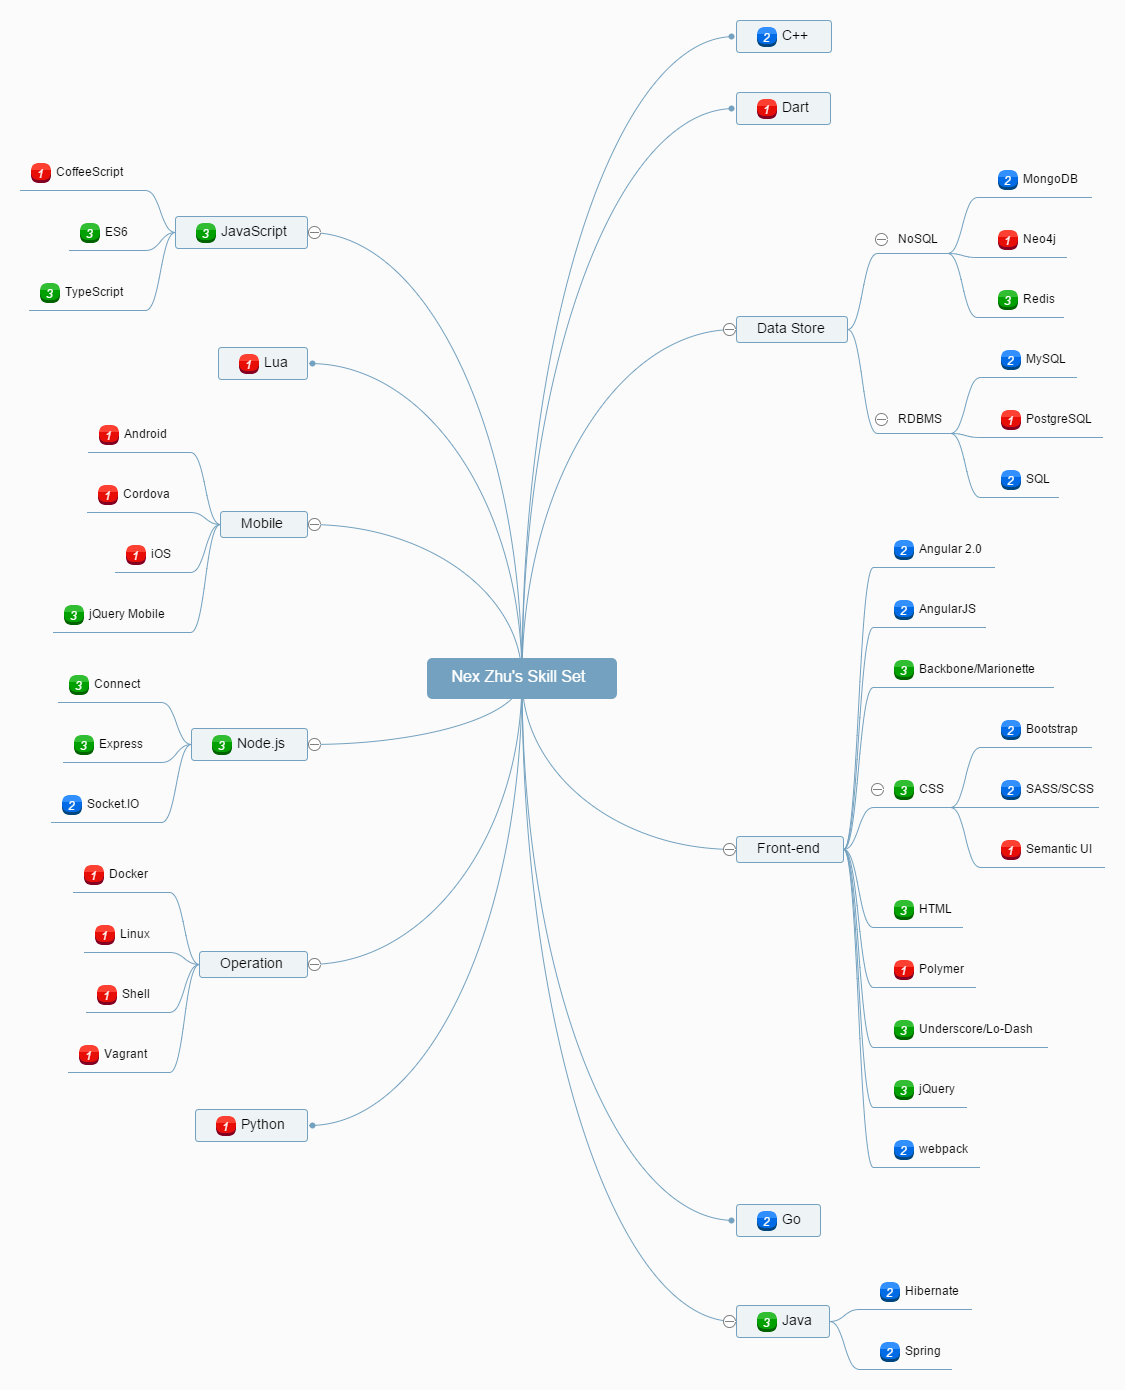
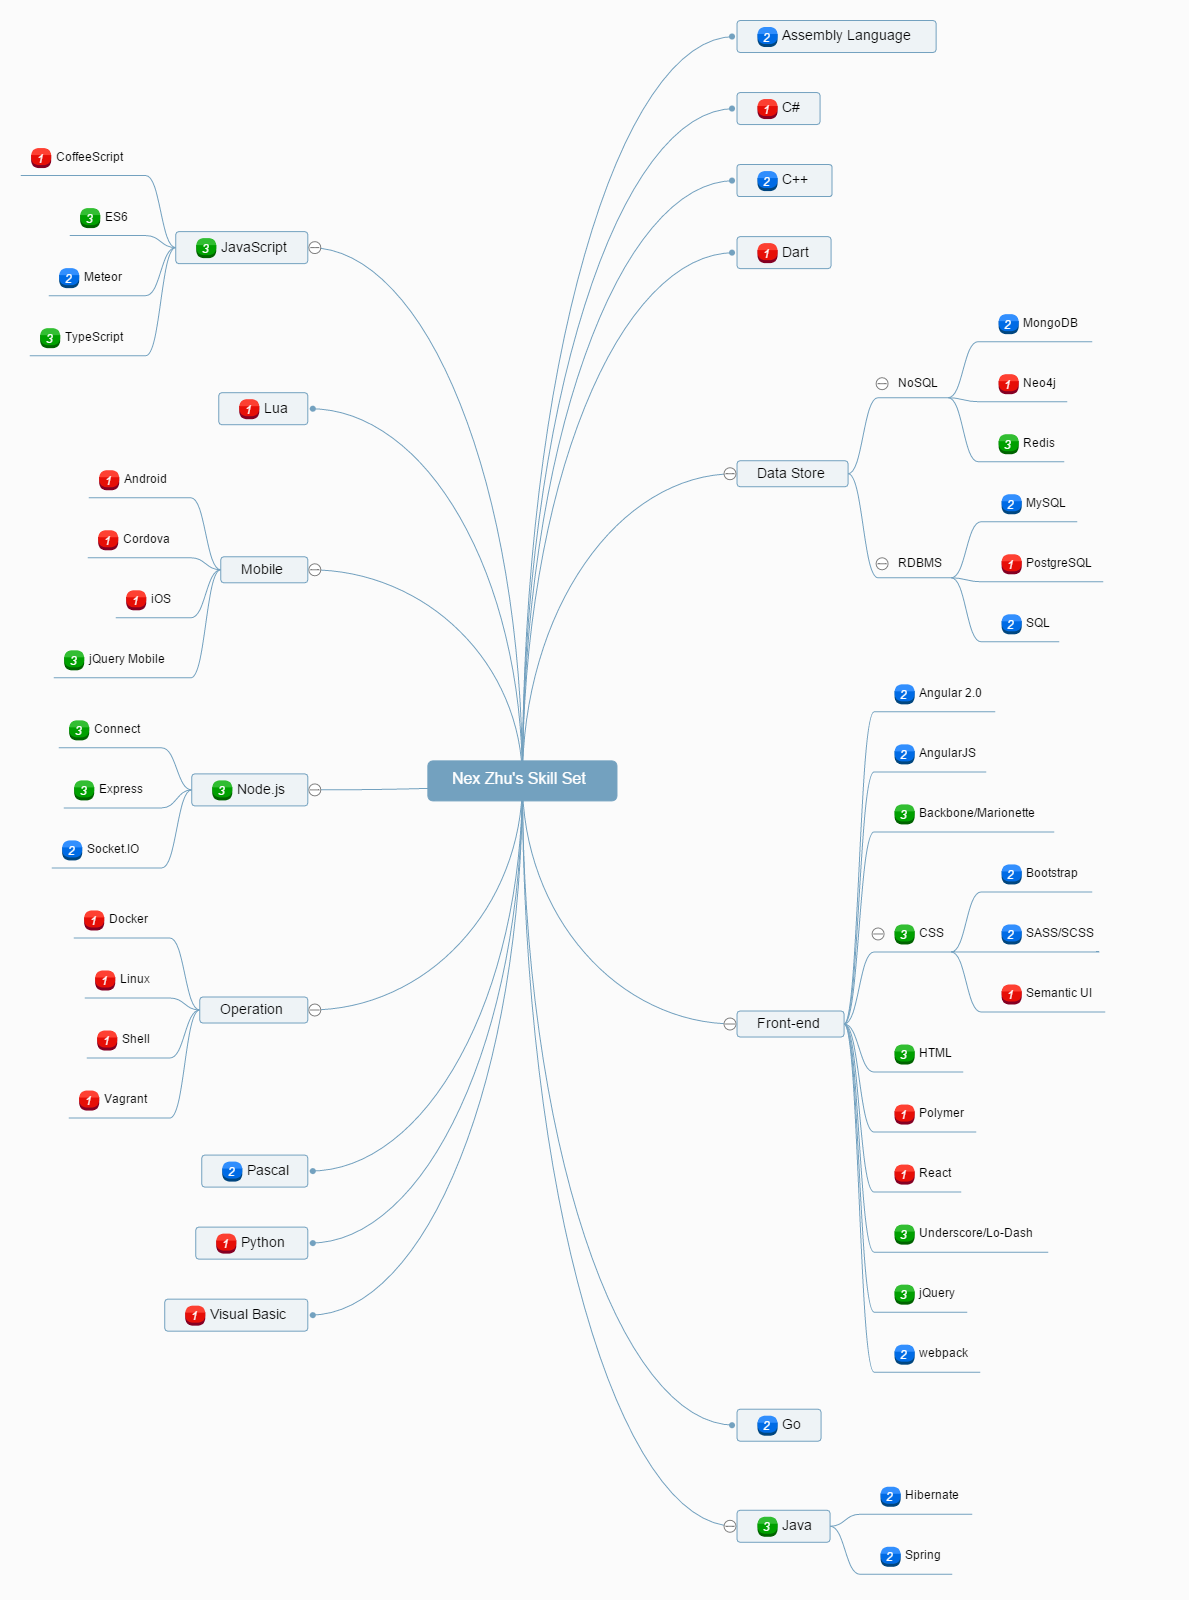
add demo link in README.md

diff --git a/public/index.html b/public/index.html
@@ -36,6 +36,8 @@
 {
   "name": "Nex Zhu",
   "skillset": {
+    "Assembly Language": 2,
+    "C#": 1,
     "C++": 2,
     "Dart": 1,
     "Data Store": {
@@ -62,6 +64,7 @@
       },
       "HTML": 3,
       "Polymer": 1,
+      "React": 1,
       "Underscore/Lo-Dash": 3,
       "jQuery": 3,
       "webpack": 2
@@ -76,6 +79,7 @@
       ".level": 3,
       "CoffeeScript": 1,
       "ES6": 3,
+      "Meteor": 2,
       "TypeScript": 3
     },
     "Lua": 1,
@@ -97,7 +101,9 @@
       "Shell": 1,
       "Vagrant": 1
     },
-    "Python": 1
+    "Pascal": 2,
+    "Python": 1,
+    "Visual Basic": 1
   }
 }
 </textarea>

diff --git a/README.md b/README.md
@@ -1,6 +1,8 @@
 # SkillSet
 A simple JSON format for skill sets and a mind map generator
 
+[Demo](http://nexzhu.github.io/SkillSet/)
+
 ## Background
 
 Initially created to help me choose technology stacks for 2015 Eleme Hackathon according to the skill sets of my teammates and me.
@@ -24,6 +26,8 @@ SkillSet uses [Baidu FEX team](http://fex.baidu.com/)'s [Kity](https://github.co
     {
       "name": "Nex Zhu",
       "skillset": {
+        "Assembly Language": 2,
+        "C#": 1,
         "C++": 2,
         "Dart": 1,
         "Data Store": {
@@ -50,6 +54,7 @@ SkillSet uses [Baidu FEX team](http://fex.baidu.com/)'s [Kity](https://github.co
           },
           "HTML": 3,
           "Polymer": 1,
+          "React": 1,
           "Underscore/Lo-Dash": 3,
           "jQuery": 3,
           "webpack": 2
@@ -64,6 +69,7 @@ SkillSet uses [Baidu FEX team](http://fex.baidu.com/)'s [Kity](https://github.co
           ".level": 3,
           "CoffeeScript": 1,
           "ES6": 3,
+          "Meteor": 2,
           "TypeScript": 3
         },
         "Lua": 1,
@@ -85,7 +91,9 @@ SkillSet uses [Baidu FEX team](http://fex.baidu.com/)'s [Kity](https://github.co
           "Shell": 1,
           "Vagrant": 1
         },
-        "Python": 1
+        "Pascal": 2,
+        "Python": 1,
+        "Visual Basic": 1
       }
     }
 
